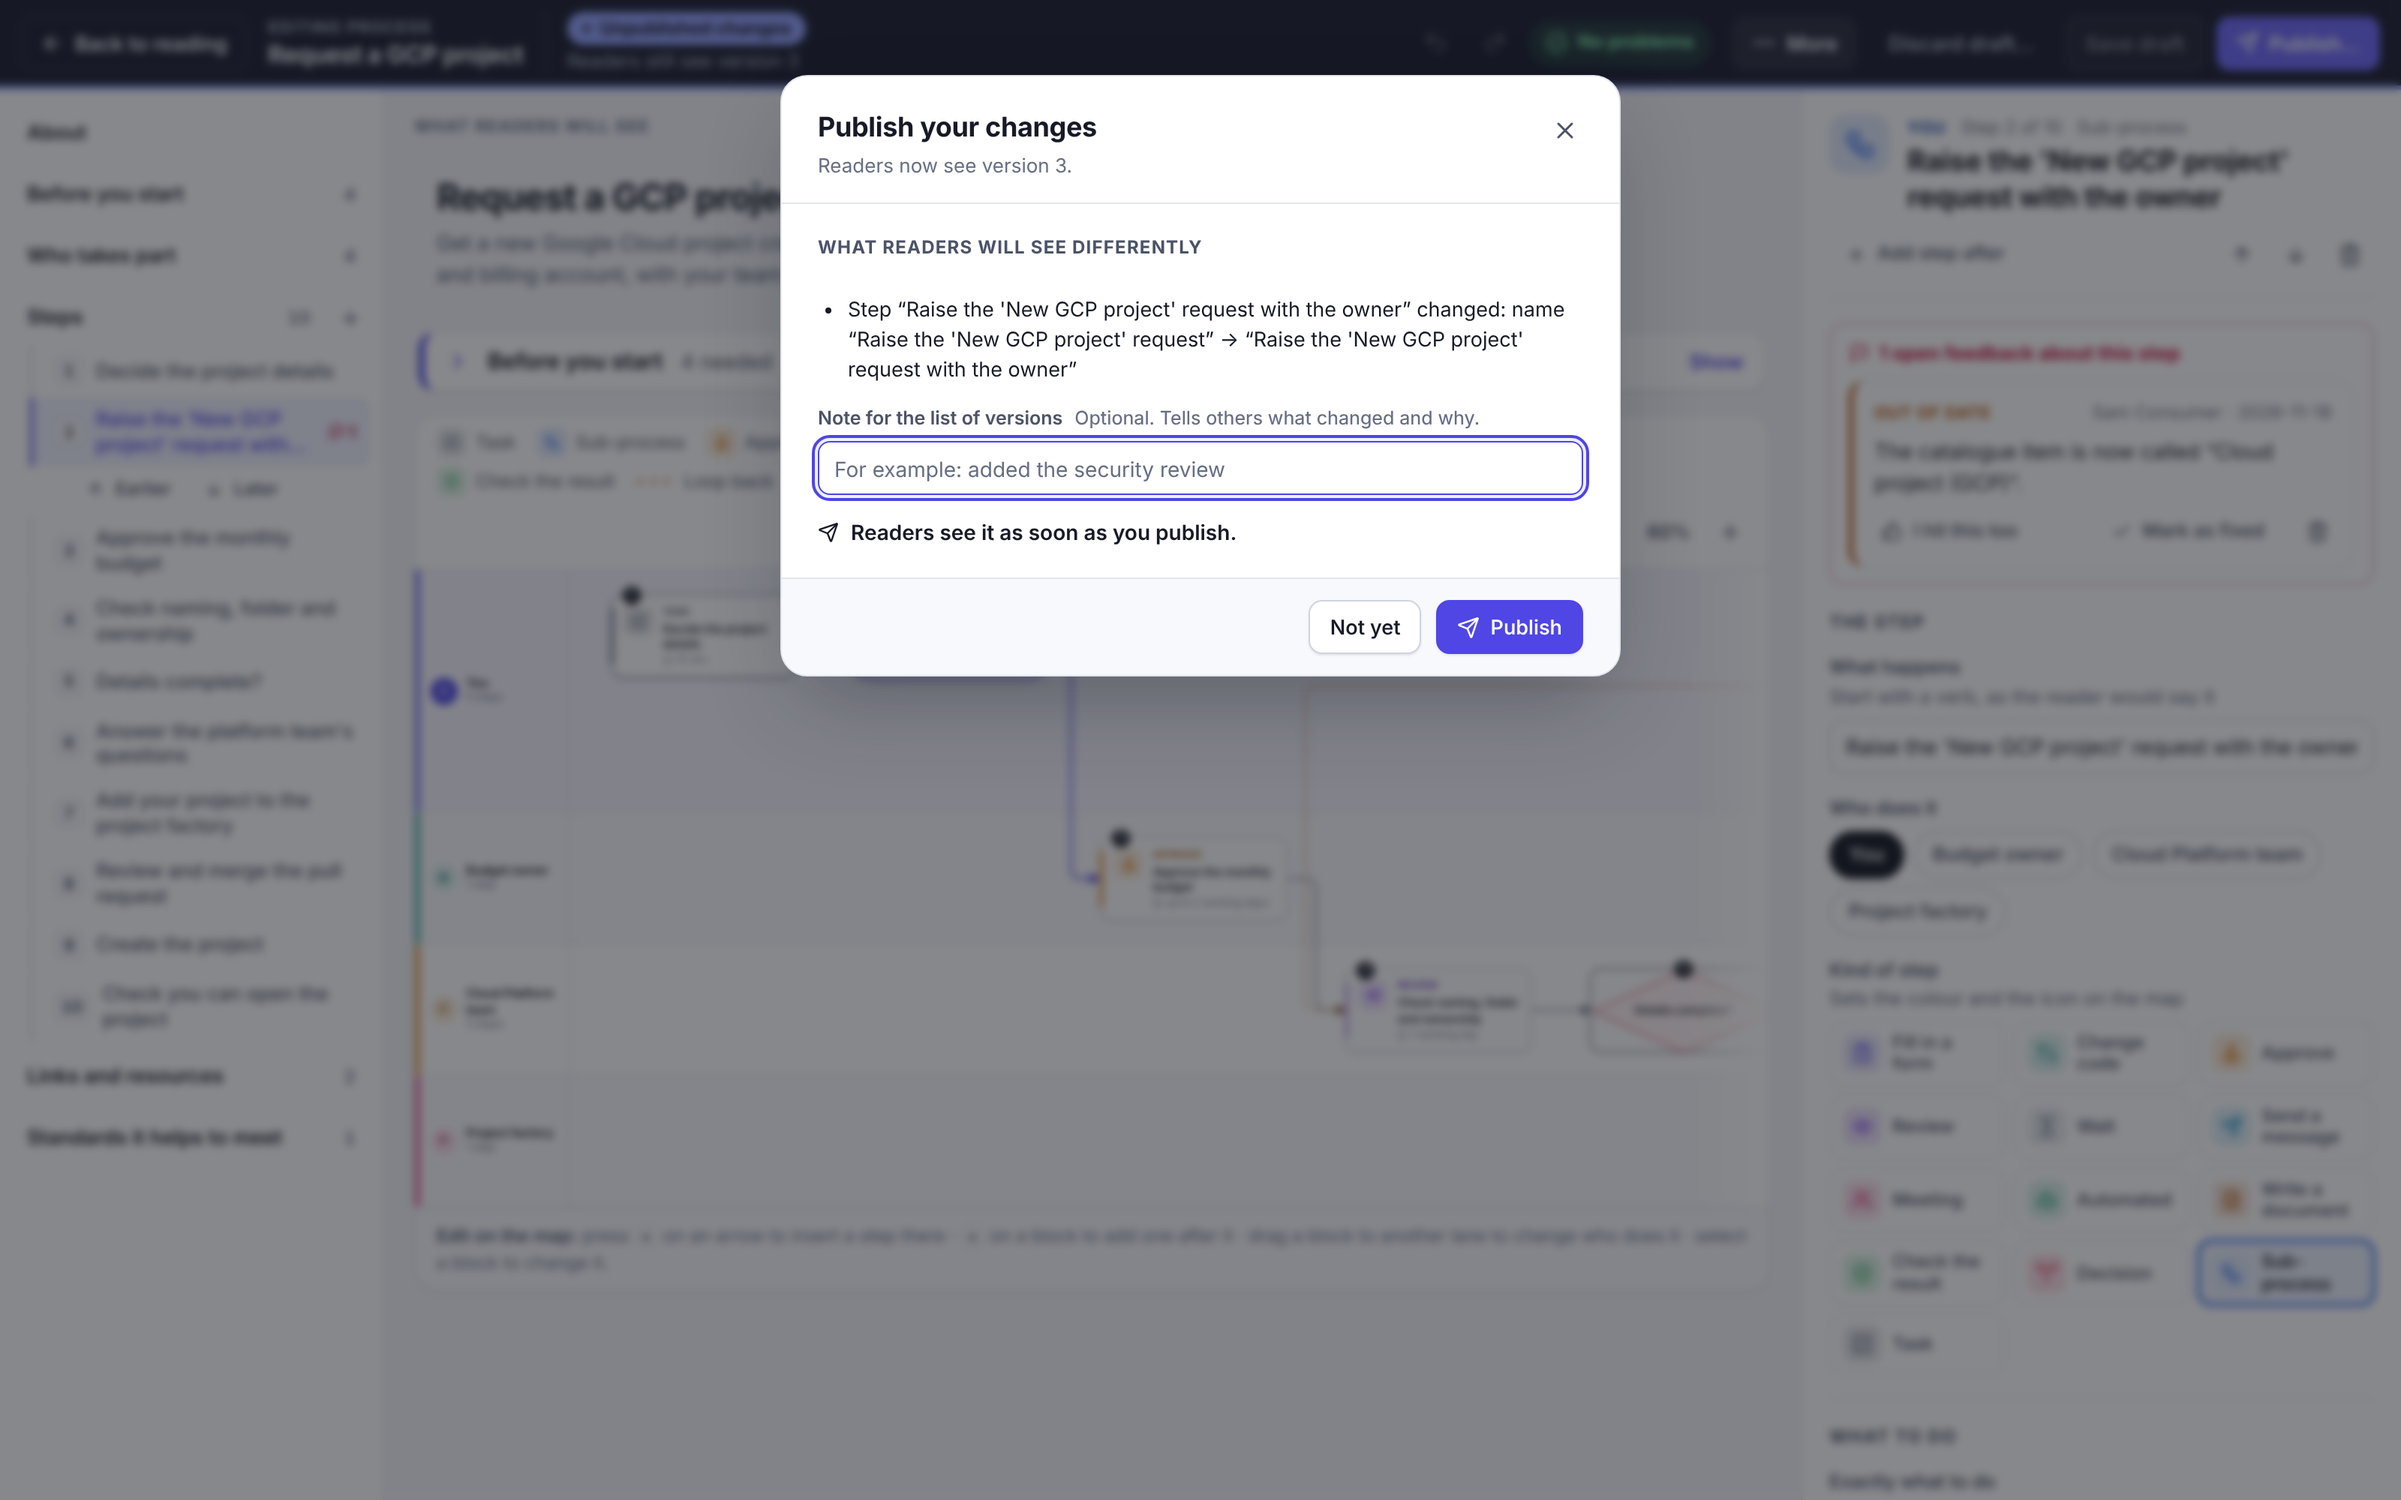
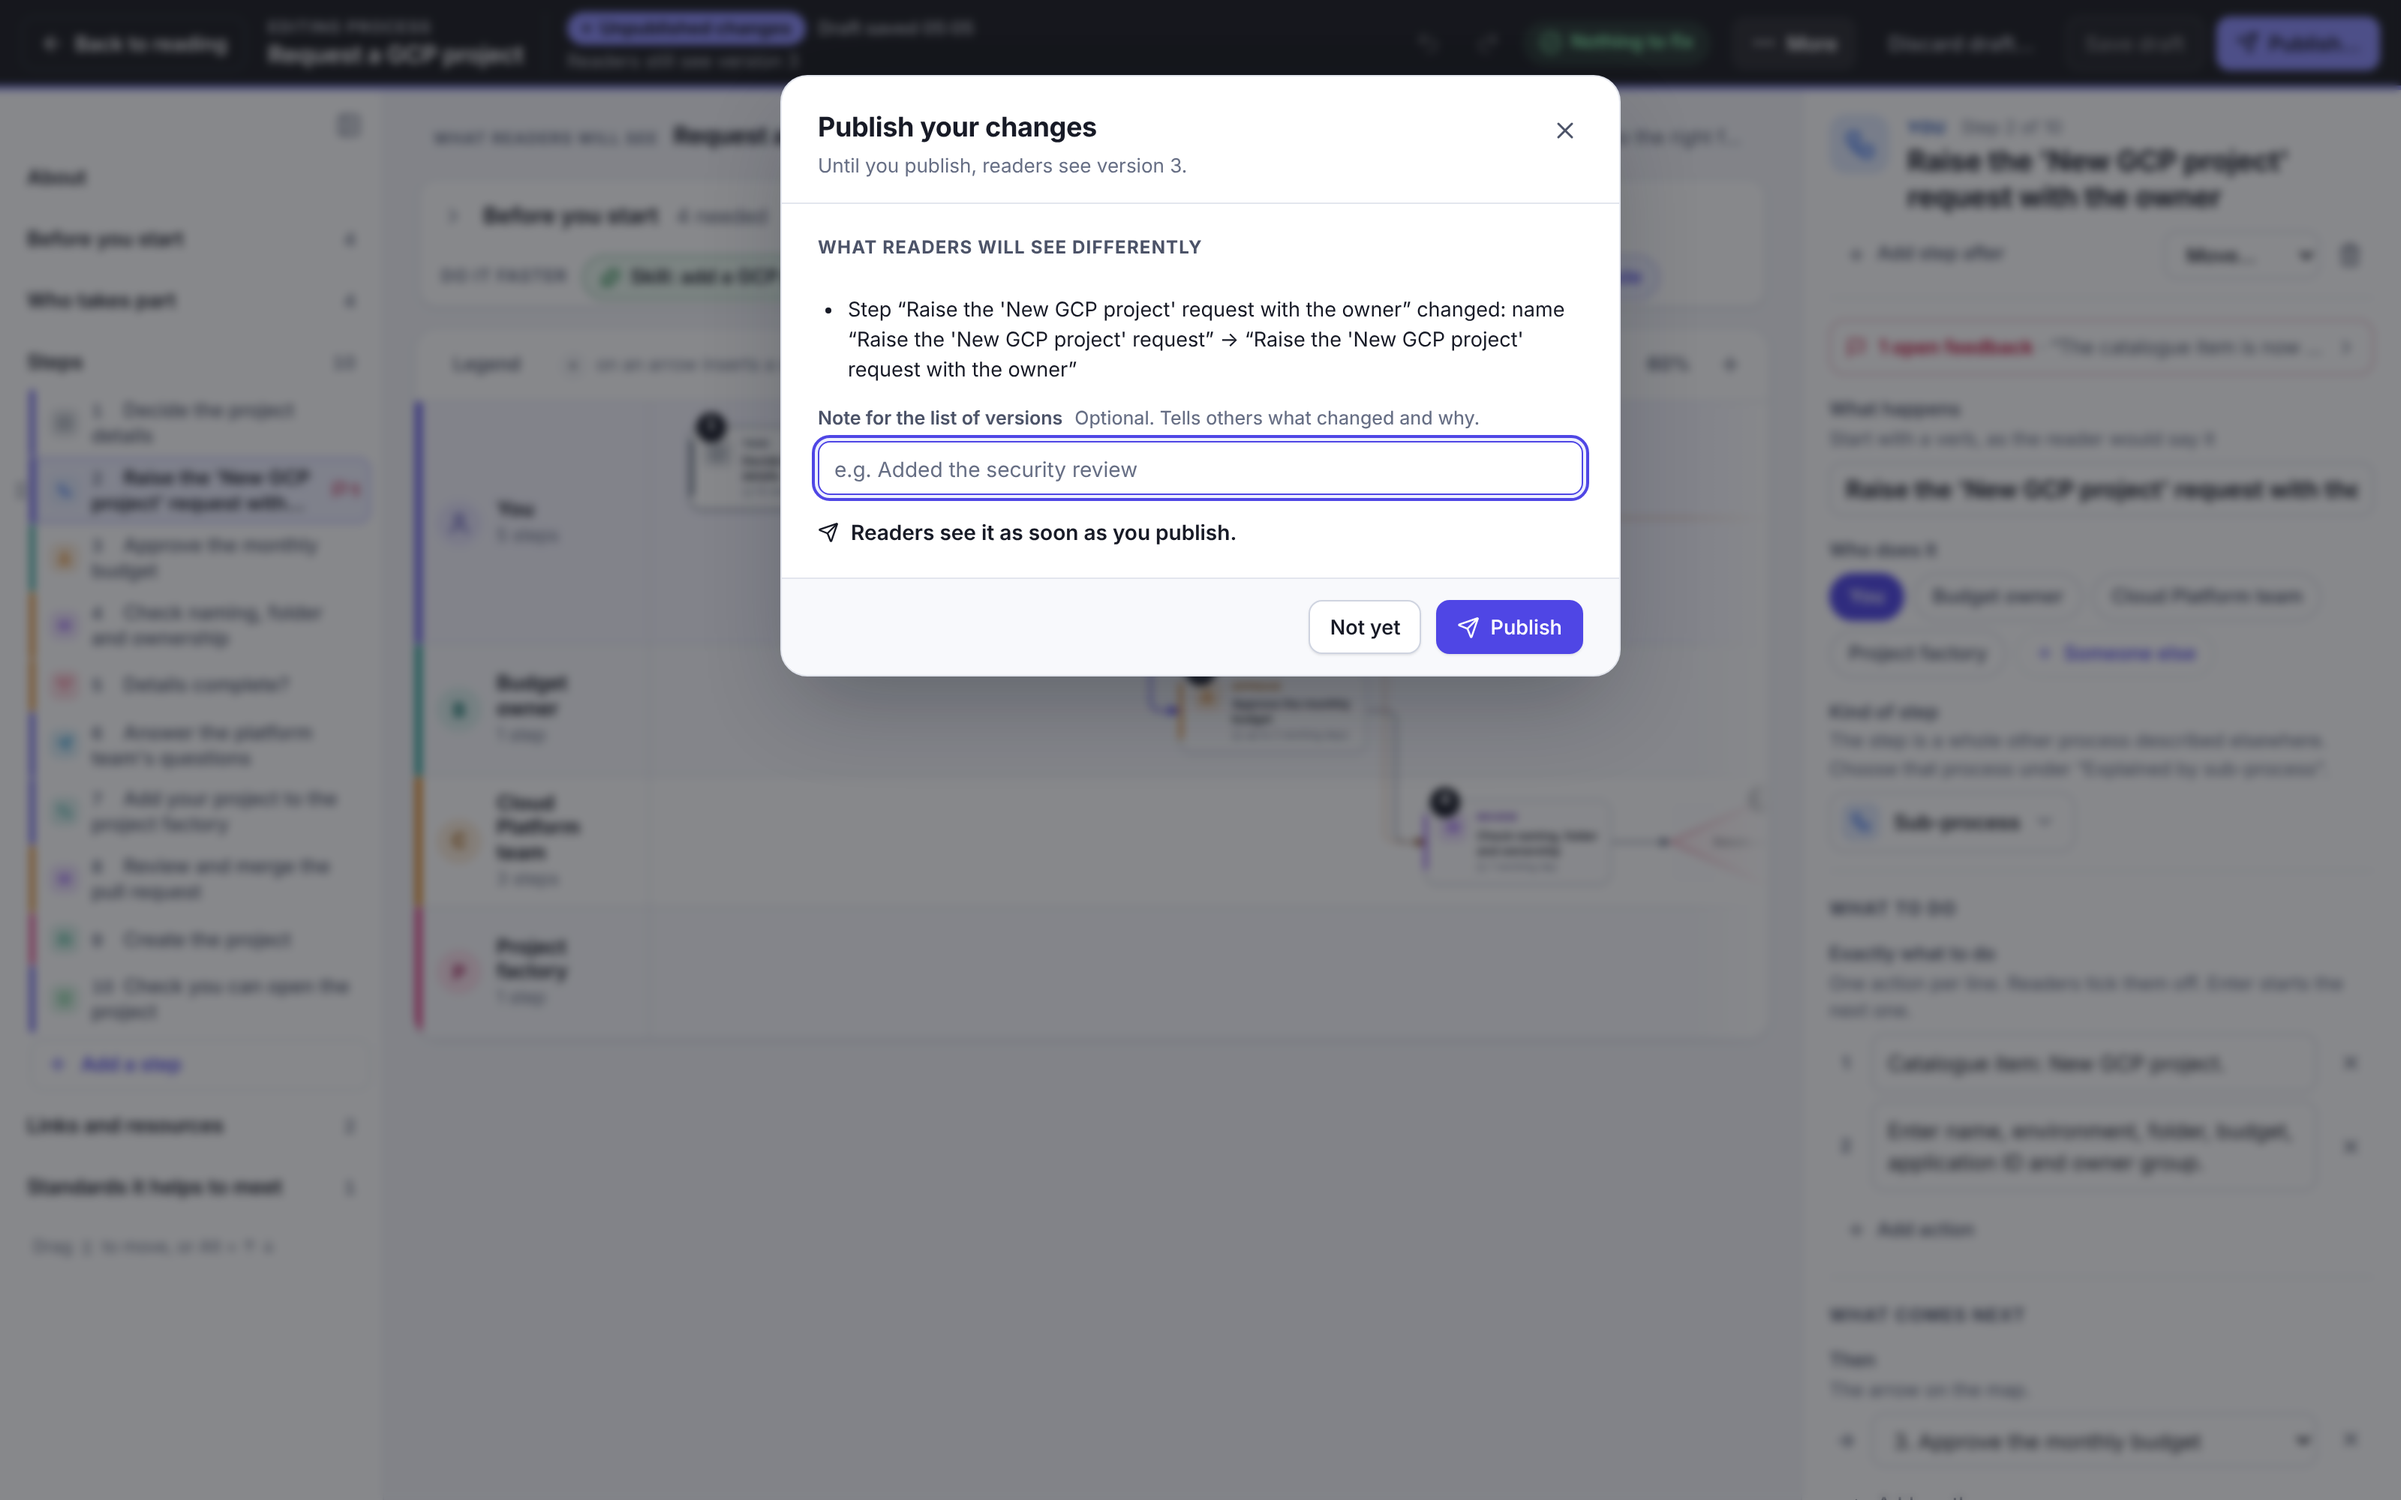
Work in progress: screenshots of the redesigned interface
Claude-Session: https://claude.ai/code/session_011qCrvi8b2eDbxEg6hLHvxQ

diff --git a/e2e/editing.spec.ts b/e2e/editing.spec.ts
@@ -192,7 +192,7 @@ test("an unfinished draft can be saved, but not published: the reason is given a
   await expect(page.getByRole("dialog", { name: "Publish your changes" })).toHaveCount(0);
   const reason = refusal(page);
   await expect(reason).toHaveAttribute("role", "alert");
-  await expect(reason).toContainText(/^This cannot be published yet\. First fix /);
+  await expect(reason).toHaveText(/^First fix the \d+ things? listed under “\d+ to fix”\.$/);
   // the list itself is there below it, and the first problem is selected
   await expect(page.getByRole("dialog", { name: "What is to fix" }).getByRole("heading", { name: /^To fix/ })).toBeVisible();
   await expect(nav.locator('[aria-current="true"]')).toContainText((await readProcess(page, id))!.steps[1].title);
@@ -247,7 +247,7 @@ test("Discard changes goes back to the saved draft and can be undone; Discard dr
   // and it is in the activity log, in words
   await signIn(page, DANA);
   await open(page, "/admin/activity");
-  await expect(page.locator(".activity li").filter({ hasText: id }).first()).toContainText("threw away the unpublished changes of the process");
+  await expect(page.locator(".activity li").filter({ hasText: "Editing demo discard" }).first()).toContainText("threw away the unpublished changes of the process");
 });
 
 test("a new process is a draft nobody else sees until it is published", async ({ page, browser }) => {
@@ -639,7 +639,7 @@ test.describe("more of the editing screen", () => {
     await expect(publishButton).toHaveClass(/\bunavailable\b/);
     await publishButton.click();
     await expect(page.getByRole("dialog", { name: "Publish this standard" })).toHaveCount(0);
-    await expect(refusal(page)).toContainText(/^This cannot be published yet\. First replace the (example text|\d+ example texts) with your own words \(under “\d+ to fix”\)\.$/);
+    await expect(refusal(page)).toContainText(/^First replace the (example text|\d+ example texts) with your own words \(under “\d+ to fix”\)\.$/);
     await page.keyboard.press("Escape");
     // a checker error that is not example text stops a never-published draft from being saved, with the reason
     await outline(page, "About");

diff --git a/e2e/editscreen.spec.ts b/e2e/editscreen.spec.ts
@@ -1,3 +1,4 @@
+import { readFileSync } from "node:fs";
 import { expect, test, type APIRequestContext, type Page } from "@playwright/test";
 import {
   ALEX, CSRF, RILEY, addInOutline, editState, fields, moveTo, openEditor, outline, outlineNav, outlineTitles, pickKind, readWorkingDraft, saveDraft, signIn,
@@ -12,10 +13,10 @@ const PREFIX = "editscreen-demo-";
 const GCP = "request-gcp-project";
 const LIB = "publish-internal-library";
 
+/** A copy of a sample process as it is in its file (other tests change the stored one). */
 async function copyOf(request: APIRequestContext, src: string, id: string, title: string) {
   await request.post("/auth/dev/login", { data: { email: ALEX }, headers: CSRF });
-  const { processes } = await (await request.get("/api/processes")).json();
-  const doc = processes.find((p: { id: string }) => p.id === src);
+  const doc = JSON.parse(readFileSync(`processes/${src}.json`, "utf8"));
   const res = await request.put(`/api/processes/${id}?base=0`, { data: { ...doc, id, title, status: "active" }, headers: CSRF });
   expect(res.ok(), `create ${id}: ${await res.text()}`).toBeTruthy();
 }

diff --git a/e2e/cards.spec.ts b/e2e/cards.spec.ts
@@ -34,8 +34,7 @@ for (const [hash, panelId] of [["/processes", "process-filters"], ["/standards",
     await expect(results.locator("li.card").first()).toBeVisible();
     const [p, r] = [(await panel.boundingBox())!, (await results.boundingBox())!];
     expect(p.x + p.width).toBeLessThanOrEqual(r.x + 1); // the panel ends where the results begin
-    const level = hash === "/standards" ? "Level" : "Rigour";
-    for (const name of ["Category", "Platform", "Practice", level, "Owner"]) await expect(panel.getByRole("button", { name: new RegExp(`^${name}: Any$`) })).toBeVisible();
+    for (const name of ["Category", "Platform", "Practice", "Rigour", "Owner"]) await expect(panel.getByRole("button", { name: new RegExp(`^${name}: Any$`) })).toBeVisible();
     await expect(panel.getByRole("checkbox", { name: /^Only my bookmarks, \d+ results?$/ })).toBeVisible();
     // in groups with headings: what to show only, what narrows down, and the reader's application
     await expect(panel.locator(".filter-group-title")).toHaveText(["Show only", "Narrow down", "My application"]);

diff --git a/e2e/admin.spec.ts b/e2e/admin.spec.ts
@@ -82,8 +82,11 @@ test("an admin gives someone a role and it takes effect at once", async ({ page,
   // all of it is in the activity log, newest first, in plain words
   await page.locator(".admin-nav").getByRole("link", { name: "Activity" }).click();
   const log = page.locator(".activity li");
-  await expect(log.nth(0)).toContainText("Dana Admin removed every role of sam@example.com");
-  await expect(log.nth(1)).toContainText("Sam Consumer published the standard code-review");
+  await expect(log.nth(0)).toContainText("Dana Admin took every role from sam@example.com");
+  // documents by their title, the id as tooltip
+  await expect(log.nth(1)).toContainText("Sam Consumer published the standard");
+  await expect(log.nth(1).locator(".activity-doc")).toHaveText("Code review");
+  await expect(log.nth(1).locator(".activity-doc")).toHaveAttribute("title", /code-review/);
   await expect(log.nth(2)).toContainText("Dana Admin changed the roles of sam@example.com");
   await expect(log.nth(2)).toContainText("added Practice owner for the practice Engineering");
 });

diff --git a/e2e/consumer.spec.ts b/e2e/consumer.spec.ts
@@ -68,8 +68,10 @@ test("follow the checklist: prerequisites, exact actions, ticks that are remembe
   await open(page, "/p/request-gcp-project/list");
   await expect(page.getByText("0 of 5 of your steps done")).toBeVisible();
   await expect(page.locator(".prereq")).toHaveCount(4);
-  await expect(page.locator(".prereqs .resources li.skill")).toContainText("Skill: add a GCP project");
-  await expect(page.locator(".link-list.row").getByRole("link", { name: "Infrastructure as code" })).toBeVisible();
+  // one compact panel, the same as on the map: the ways to do it faster and the standards on its first line
+  const before = page.getByRole("region", { name: "Before you start" });
+  await expect(before.locator(".before-head .before-links li.skill")).toContainText("Skill: add a GCP project");
+  await expect(before.locator(".before-head .before-links").getByRole("link", { name: "Infrastructure as code" })).toBeVisible();
 
   const first = page.locator(".step").first();
   await expect(first).toContainText("Choose the environment: dev, test or prod.");

diff --git a/e2e/editor.spec.ts b/e2e/editor.spec.ts
@@ -118,7 +118,7 @@ test("edit a step in its fields; the checker blocks publishing until it is right
   await expect(page.locator(".edit-bar").getByRole("button", { name: "Publish…" })).toHaveClass(/\bunavailable\b/);
   await page.locator(".edit-bar").getByRole("button", { name: "Publish…" }).click();
   await expect(page.getByRole("dialog", { name: "Publish your changes" })).toHaveCount(0);
-  await expect(refusal(page)).toHaveText(/^This cannot be published yet\. First fix the 1 thing listed under “1 to fix”\.$/);
+  await expect(refusal(page)).toHaveText(/^First fix the 1 thing listed under “1 to fix”\.$/);
   await page.keyboard.press("Escape");
 
   await pickKind(page, "Check the result");

diff --git a/README.md b/README.md
@@ -17,6 +17,8 @@ From both, the portal generates **skills for AI coding assistants** and, for sta
 
 ![Search results with filters](docs/search.png)
 
+![The same results as rows](docs/search-rows.png)
+
 ![The list of processes](docs/processes.png)
 
 ![Map view](docs/map.png)
@@ -124,6 +126,8 @@ The first admins are named in the server setting `PM_ADMINS`.
 ![Admin panel](docs/admin.png)
 
 ![The roles of one person](docs/roles.png)
+
+![Admin › Theming with its preview](docs/theming.png)
 
 ![A platform and its members](docs/platforms.png)
 
